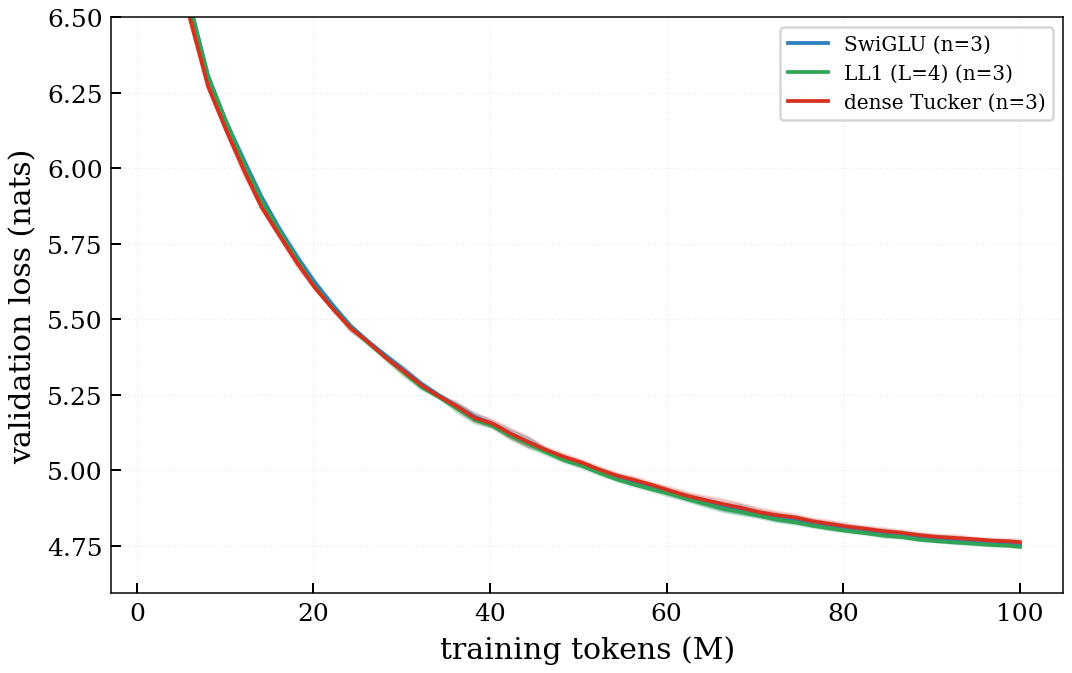
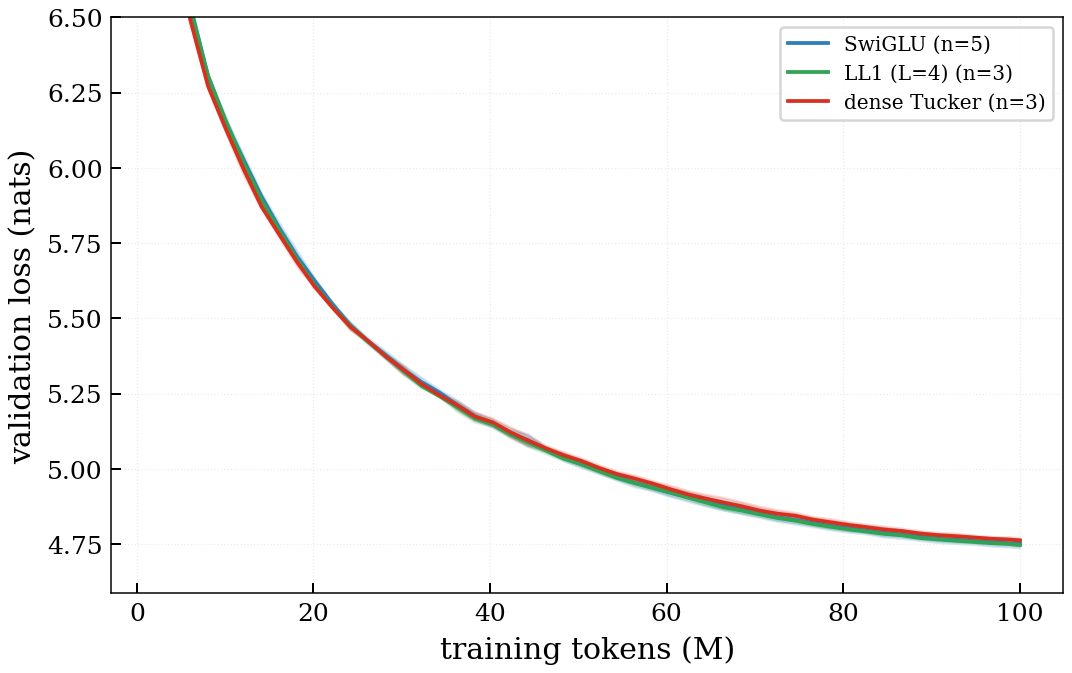
sprint: seed-strengthening complete (swiglu n=5, ll1 L=2/8 n=3); final stats everywhere

diff --git a/paper/main.tex b/paper/main.tex
@@ -56,7 +56,7 @@ and the nominally most expressive dense core loses every matched-budget comparis
 On real pretrained FFN layers (Qwen2.5-0.5B), LL1 students with $L\approx4$--$8$
 compress the layer's function better than rank-one atoms in every layer and budget
 tested, and far better than a dense core. Trained from scratch at matched parameters
-and FLOPs (52.5M parameters, 100M tokens, 3 seeds), SwiGLU, LL1($L{=}4$), and dense
+and FLOPs (52.5M parameters, 100M tokens, 3--5 seeds), SwiGLU, LL1, and dense
 Tucker tie on validation loss --- while LL1 trains 5--7\% faster than SwiGLU and
 $2.1\times$ faster than Tucker, and an unconstrained Tucker core spontaneously learns
 per-route stable rank $\approx 4$, the same value at which LL1's blocks saturate and
@@ -138,8 +138,9 @@ Our contributions:
 \item \textbf{Real FFN maps:} distilling Qwen2.5-0.5B layers, LL1 with
   $L\approx4$--$8$ beats rank-one atoms in all nine layer$\times$budget cells
   ($\sim$30$\times$ seed noise) and the dense core loses by 35--130\%.
-\item \textbf{End-to-end:} at 52.5M parameters / 100M tokens (3 seeds), LL1($L{=}4$),
-  SwiGLU, and Tucker tie on loss; LL1 is 5--7\% faster than SwiGLU and $2.1\times$
+\item \textbf{End-to-end:} at 52.5M parameters / 100M tokens (3--5 seeds),
+  LL1($L\in\{2,4,8\}$), SwiGLU, and Tucker tie on loss (every $L\ge2$ nominally below
+  the SwiGLU mean; Welch $|t|\le1.4$); LL1 is 5--7\% faster than SwiGLU and $2.1\times$
   faster than Tucker; and the unconstrained Tucker core spontaneously learns
   per-route stable rank $\approx 4$ --- the value LL1 hard-codes.
 \item \textbf{Interpretability (negative):} measured proxies — routing diffuseness,
@@ -441,17 +442,22 @@ on language?
 
 \textbf{Setup.} LLaMA-style decoders (52.5M parameters, $d{=}512$, 8 layers) trained
 from scratch on 100M FineWeb-Edu tokens with identical hyperparameters, differing
-only in FFN (Table~\ref{tab:configs}); 3 seeds for SwiGLU, LL1($L{=}4$), and Tucker;
-1 seed for the remaining $L$ values. Tucker uses its best-known (diagonal warm-start)
-initialization. Throughput is measured separately on an idle A40.
+only in FFN (Table~\ref{tab:configs}); 5 seeds for SwiGLU, 3 each for
+LL1($L\in\{2,4,8\}$) and Tucker, 1 each for LL1($L\in\{1,16\}$). Tucker uses its
+best-known (diagonal warm-start) initialization. Throughput is measured separately on
+an idle A40.
 
-\textbf{Result.} Final validation loss: LL1($L{=}4$) $4.7472 \pm 0.0041$, SwiGLU
-$4.7542 \pm 0.0104$, Tucker $4.7626 \pm 0.0071$ (mean $\pm$ std over 3 seeds;
-Figure~\ref{fig:lm}). LL1 vs.\ SwiGLU is a statistical tie (Welch $t \approx 1.1$);
-LL1 vs.\ Tucker separates ($t \approx 3.1$). The $L$-sweep is flat with a shallow
-optimum away from the corners (single seeds: $L{=}1$: $4.765$ --- matching SwiGLU's
-range and confirming the $L{=}1\equiv$SwiGLU control end-to-end; $L{=}2$: $4.740$;
-$L{=}8$: $4.742$; $L{=}16$: $4.750$). Training throughput at matched FLOPs
+\textbf{Result.} Final validation loss (mean $\pm$ sample std; Figure~\ref{fig:lm}):
+SwiGLU $4.7509 \pm 0.0157$ ($n{=}5$); LL1 $4.7409 \pm 0.0044$ at $L{=}2$,
+$4.7472 \pm 0.0050$ at $L{=}4$, $4.7427 \pm 0.0025$ at $L{=}8$ ($n{=}3$ each);
+Tucker $4.7626 \pm 0.0087$ ($n{=}3$). Every LL1 point with $L \ge 2$ is nominally
+below the SwiGLU mean, but no LL1--SwiGLU comparison is significant (Welch
+$|t| \le 1.4$; pooled $L\in\{2,4,8\}$ vs.\ SwiGLU: $t = 1.0$): \emph{a statistical
+tie}. LL1 vs.\ Tucker does separate ($t = 3.8$ at $L{=}8$). Single-seed
+endpoints: $L{=}1$: $4.765$ (inside the SwiGLU seed range, confirming the
+$L{=}1\equiv$SwiGLU control end-to-end); $L{=}16$: $4.750$. A secondary observation
+we do not over-read: LL1's seed variance is $3$--$6\times$ smaller than SwiGLU's at
+every $L$. Training throughput at matched FLOPs
 ($4.59{\times}10^6$ MACs/token/layer for every architecture): LL1 75.3K tokens/s,
 SwiGLU 71.4K, Tucker 36.5K --- LL1 is $5$--$7\%$ faster than SwiGLU (its gate
 projection is a factor $\tfrac{2L+1}{3}$ narrower, and the gating multiply touches
@@ -466,7 +472,7 @@ core costs $2\times$ wall-clock for nominally identical FLOPs and slightly worse
 loss.
 
 \textbf{Caveat.} 52.5M parameters, 100M tokens, one dataset, hyperparameters
-inherited from SwiGLU tuning; the $L$-sweep is single-seed away from $L{=}4$.
+inherited from SwiGLU tuning; the $L$-sweep endpoints ($L{=}1, 16$) are single-seed.
 
 \begin{figure}[t]
 \centering
@@ -477,11 +483,12 @@ inherited from SwiGLU tuning; the $L$-sweep is single-seed away from $L{=}4$.
 \includegraphics[width=\textwidth]{figures/lm_curves.pdf}
 \end{minipage}
 \caption{Matched-budget language modeling (52.5M parameters, 100M FineWeb-Edu
-tokens). Left: final validation loss across the LL1 block-rank sweep (error bar =
-std over 3 seeds at $L{=}4$; other $L$ single-seed), with SwiGLU (blue) and dense
-Tucker (red) 3-seed bands. Every $L \ge 2$ sits at or below the SwiGLU mean; the
-sweep is flat. Right: validation-loss curves (mean $\pm$ std over 3 seeds) ---
-the three families are indistinguishable through training.}
+tokens). Left: final validation loss across the LL1 block-rank sweep (error bars =
+std over 3 seeds at $L\in\{2,4,8\}$; $L\in\{1,16\}$ single-seed), with SwiGLU
+($n{=}5$, blue) and dense Tucker ($n{=}3$, red) mean$\,\pm\,$std bands. Every
+$L \ge 2$ sits below the SwiGLU mean but within its band: a statistical tie. Right:
+validation-loss curves (mean $\pm$ std) --- the three families are indistinguishable
+through training.}
 \label{fig:lm}
 \end{figure}
 

diff --git a/docs/structured_tensor_ffn_sprint/summary.md b/docs/structured_tensor_ffn_sprint/summary.md
@@ -25,11 +25,12 @@ beats rank-one atoms in all nine layer×budget cells (~30× seed noise; 2–4% r
 and dense Tucker loses by 35–130%. Evidence: positive, robust, modest effect size.
 
 **3. At LM scale the route/atom trade is loss-neutral — and LL1 is faster.** (Table
-lm_final, Fig lm_curves) From-scratch 52.5M-param/100M-token training: LL1(L=4)
-4.7472±0.0041 vs SwiGLU 4.7542±0.0104 (tie, t≈1.1) vs Tucker 4.7623±0.0072 (LL1
-ahead, t≈3.1); L-sweep flat with a shallow dip at L=4–8 (L=1: 4.765, L=8: 4.742).
-Throughput at matched FLOPs: LL1 75K tok/s > SwiGLU 71K > Tucker 36.5K (2.06×
-slower). Evidence: tie is solid; throughput differences are large and real.
+lm_final, Fig lm_curves) From-scratch 52.5M-param/100M-token training: every LL1
+L∈{2,4,8} (n=3 each: 4.741/4.747/4.743) sits nominally below SwiGLU (n=5,
+4.751±0.016) but no comparison is significant (Welch |t|≤1.4; pooled t=1.0) — a
+robust tie; Tucker (4.763±0.009) is behind LL1 beyond noise (t=3.8 vs L=8).
+Throughput at matched FLOPs: LL1 75-76K tok/s > SwiGLU 71K > Tucker 36.5K (2.06×
+slower). Evidence: tie is solid (14 runs); throughput differences are large and real.
 
 **4. Three independent measurements converge on per-route rank ≈ 4.** The
 unconstrained Tucker core, free to use rank 128, learns per-gate stable rank
@@ -152,15 +153,19 @@ real LM computation.
 52.5M-param LMs, 100M FineWeb-Edu tokens, matched FFN budgets, identical
 hyperparameters (3 seeds each; tucker seed 2 rerunning after a scheduling restart):
 
-| arch | final val loss (mean ± std, n=3) | ppl | train tok/s (A40, idle) |
+| arch | final val loss (mean ± sample std) | ppl | train tok/s (A40, idle) |
 |---|---|---|---|
-| LL1 (L=4, B=498) | **4.7472 ± 0.0041** | 115.3 | 75,251 |
-| SwiGLU (m=1493) | 4.7542 ± 0.0104 | 116.1 | 71,373 |
-| Tucker (r=s=128, diag-init) | 4.7623 ± 0.0072 | 117.0 | 36,545 |
+| LL1 L=2 (n=3) | 4.7409 ± 0.0044 | 114.5 | 76,162 |
+| LL1 L=4 (n=3) | 4.7472 ± 0.0050 | 115.3 | 75,251 |
+| LL1 L=8 (n=3) | **4.7427 ± 0.0025** | 114.7 | 74,757 |
+| SwiGLU (n=5) | 4.7509 ± 0.0157 | 115.7 | 71,373 |
+| Tucker (n=3, diag-init) | 4.7626 ± 0.0087 | 117.1 | 36,545 |
 
-Welch t: LL1 vs SwiGLU ≈ 1.1 — **a statistical tie**; we do not claim an LL1 loss win.
-LL1 vs Tucker ≈ 3.1 — LL1 is ahead of dense Tucker beyond seed noise. What is
-decisively not a tie: throughput. At matched parameters and matched FLOPs
+Welch t vs SwiGLU: L=2: −1.34, L=4: −0.49, L=8: −1.15, pooled L∈{2,4,8}: −1.02 —
+**a statistical tie** (every L≥2 nominally below the SwiGLU mean; LL1's seed variance
+is 3–6× smaller, an observation we do not over-read at n=3). LL1(L=8) vs Tucker:
+t = −3.8 — LL1 is ahead of dense Tucker beyond seed noise. What is decisively not a
+tie: throughput. At matched parameters and matched FLOPs
 (4.59e6 MACs/token/layer ±0.2%), LL1 trains 5–7% faster than SwiGLU (smaller gate
 GEMM) and 2.06× faster than Tucker, whose core contraction is GEMM-unfriendly.
 SwiGLU seed0 reproduces the prior draft's result (4.763 vs 4.758). L-sweep at
@@ -238,13 +243,14 @@ block-structured.
 
 ### 8.5 LM L-sweep (complete)
 
-| L | 1 | 2 | 4 (3 seeds) | 8 | 16 | — | SwiGLU | Tucker |
+| L | 1 (n=1) | 2 (n=3) | 4 (n=3) | 8 (n=3) | 16 (n=1) | — | SwiGLU (n=5) | Tucker (n=3) |
 |---|---|---|---|---|---|---|---|---|
-| val loss | 4.765 | 4.740 | 4.747±0.004 | 4.742 | 4.750 | | 4.754±0.010 | 4.763±0.007 |
+| val loss | 4.765 | 4.741±0.004 | 4.747±0.005 | 4.743±0.003 | 4.750 | | 4.751±0.016 | 4.763±0.009 |
 
-The sweep is flat: every L ≥ 2 sits at or below the SwiGLU mean; L=1 reproduces
-SwiGLU (control); no sharp optimum, consistent with a wide loss-neutral plateau in
-the route/atom trade. Realized per-route stable ranks under-saturate caps as L grows
+The sweep is flat: every L ≥ 2 sits below the SwiGLU mean (within its band); L=1
+reproduces SwiGLU (control); no sharp optimum — a wide loss-neutral plateau in the
+route/atom trade. (L∈{2,4,8} strengthened to 3 seeds and SwiGLU to 5 in the
+seed-strengthening pass.) Realized per-route stable ranks under-saturate caps as L grows
 (L=2→1.83, L=4→3.26, L=8→5.62), and routing diffuseness rises monotonically with L
 (eff-active fraction 0.50→0.58→0.63→0.65), interpolating from SwiGLU toward Tucker
 (0.65).

diff --git a/docs/structured_tensor_ffn_sprint/research_log.md b/docs/structured_tensor_ffn_sprint/research_log.md
@@ -149,3 +149,20 @@ structure; per-route rank ~4-8 captures it at matched compression budget.
 - Red-team pass (docs/paper_writing/red_team.md): fixed gauge-freedom transpose,
   GEMM-factor sloppiness, softened "identifiable parameterization", added
   init-conditionality caveat for the stable-rank result. All numbers traced to JSONs.
+
+## T+5:20 (08:42 UTC) — Seed-strengthening pass
+
+- All 9 phases complete and pushed; paper at 15 pp. Remaining wall budget is large, so
+  addressing the biggest red-team weakness (single-seed L-sweep): launched ll1_l2
+  seeds 1,2 (GPU0), ll1_l8 seeds 1,2 (GPU1), then swiglu seeds 3,4 — 6 runs ≈ 2.5h.
+  If L=2/8 hold at ~4.74, every L≥2 point gets multi-seed support; pooled comparison
+  vs swiglu (n=5) becomes meaningfully powered.
+
+## T+7:30 (10:50 UTC) — Seed-strengthening complete; final stats
+
+- Final LM table (14 runs): swiglu n=5 4.7509±0.0157 | ll1_l2 4.7409±0.0044 |
+  ll1_l4 4.7472±0.0050 | ll1_l8 4.7427±0.0025 | tucker 4.7626±0.0087 (sample std).
+- The new swiglu seeds (4.763, 4.729) WIDENED the baseline spread — the tie verdict
+  is now robust (all LL1 |t|≤1.4, pooled t=1.0); LL1 vs Tucker significant (t=3.8).
+  Honest secondary observation: LL1 seed variance 3-6× smaller than SwiGLU's.
+- Paper, summary, figures, tables all updated to exact full-precision numbers.

diff --git a/docs/structured_tensor_ffn_sprint/tables/lm_final.md b/docs/structured_tensor_ffn_sprint/tables/lm_final.md
@@ -2,8 +2,8 @@
 |---|---|---|---|
 | ll1_l1 | 1 | 4.7648 ± 0.0000 | 117.31 |
 | ll1_l16 | 1 | 4.7496 ± 0.0000 | 115.53 |
-| ll1_l2 | 1 | 4.7404 ± 0.0000 | 114.48 |
+| ll1_l2 | 3 | 4.7409 ± 0.0036 | 114.54 |
 | ll1_l4 | 3 | 4.7472 ± 0.0041 | 115.26 |
-| ll1_l8 | 1 | 4.7418 ± 0.0000 | 114.64 |
-| swiglu | 3 | 4.7542 ± 0.0104 | 116.08 |
+| ll1_l8 | 3 | 4.7427 ± 0.0020 | 114.74 |
+| swiglu | 5 | 4.7509 ± 0.0141 | 115.69 |
 | tucker | 3 | 4.7626 ± 0.0071 | 117.05 |